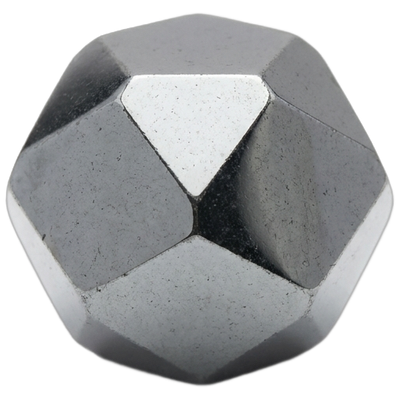
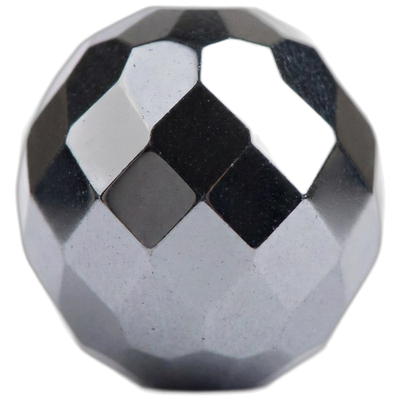
Install 64-facet hematite, purge 23 unused legacy images
- Replace the men's faceted hematite photo with the market-standard
  64-facet diamond cut (owner-approved regeneration, drill hole
  retouched out), and re-derive bead colors for the 3D preview.
- Delete 23 images nothing references: 20 *-source.png raw
  generation inputs, 2 obsolete oma-sprite sheets, and the root
  smoky.png superseded by men/smoky.png. The 21 files under
  materials/textures/ stay — preview-3d.tsx loads them via a
  computed path, so they don't appear in a literal-string scan.
- Spec: record the two admin login emails and the confirmed
  buy-a-domain decision.

Build guards pass, 15/15 tests green, stage render verified.

Claude-Session: https://claude.ai/code/session_01EHSu6fpr7k2pHeBqcjUSTW

diff --git a/app/bead-colors.ts b/app/bead-colors.ts
@@ -9,7 +9,7 @@ export const STONE_COLORS: Record<string, string> = {
   "fluorite": "#a6afac",
   "garnet": "#5b1423",
   "goldstone": "#242636",
-  "hematite": "#84878a",
+  "hematite": "#7c7d85",
   "labradorite": "#6b7d76",
   "lapis": "#3b4b7e",
   "lava": "#353538",
